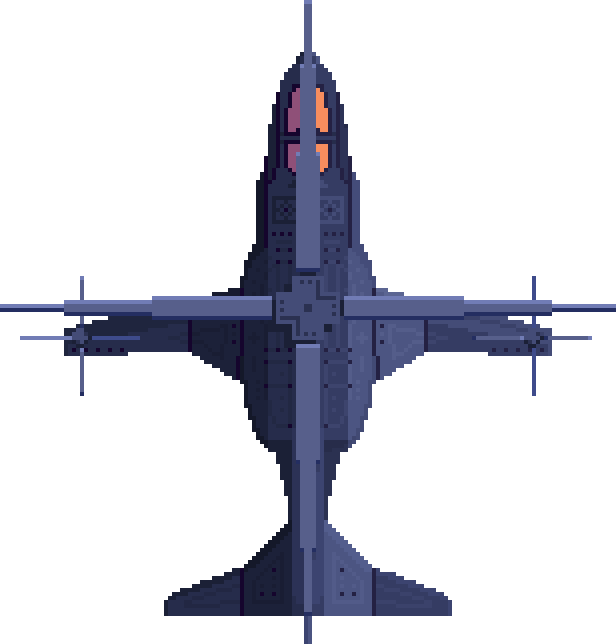
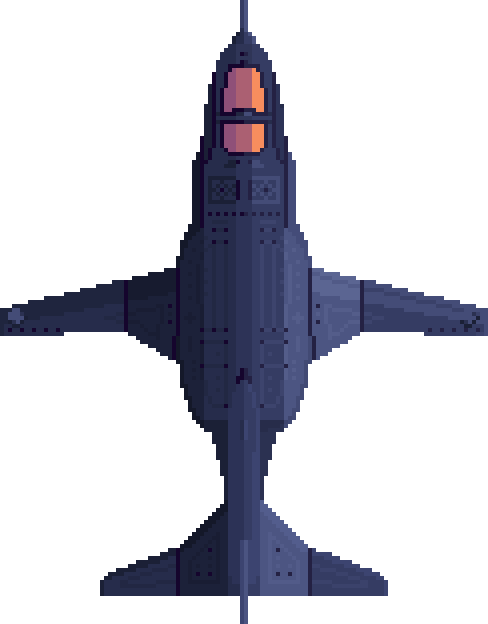
Helicopter

Changed region(s): [[0.0, 0.0, 1.0, 1.0]]

diff --git a/src/states/Game.js b/src/states/Game.js
@@ -7,6 +7,7 @@ import MapGenerator from './MapGenerator'
 import Player from '../classes/Player'
 import EnemyManager from '../classes/EnemyManager'
 import CollectableManager from '../classes/CollectableManager'
+import Helicopter from '../sprites/Helicopter'
 
 const array = require('lodash/array')
 const collection = require('lodash/collection')
@@ -34,6 +35,7 @@ export default class extends Phaser.State {
   enemyGroup = null
   playerGroup = null
   decorationGroup = null
+  helicopterGroup = null
 
   constructor () {
     super()
@@ -53,6 +55,7 @@ export default class extends Phaser.State {
     this.enemyGroup = new Phaser.Group(this.game, undefined, 'enemies', false, true)
     this.playerGroup = new Phaser.Group(this.game, undefined, 'player', false, true)
     this.decorationGroup = new Phaser.Group(this.game, undefined, 'deco', false, true)
+    this.helicopterGroup = new Phaser.Group(this.game, undefined, 'helicopter', false, true)
     this.gameWorld.position.setTo(0, 0)
     this.game.physics.startSystem(Phaser.Physics.P2JS)
     this.game.physics.p2.setImpactEvents(true)
@@ -82,6 +85,9 @@ export default class extends Phaser.State {
 
     this.game.physics.p2.updateBoundsCollisionGroup()
     this.player.sprite.body.collides(this.enemyCollisionGroup, this.hitEnemy, this)
+
+    this.helicopter = new Helicopter({game: this.game, x: -400, y: this.player.sprite.y})
+    this.helicopterGroup.add(this.helicopter)
   }
 
   hitEnemy (body1, body2) {
@@ -176,6 +182,7 @@ export default class extends Phaser.State {
     }
 
     this.player.update()
+    this.helicopter.y = this.player.sprite.y
 
     // UPDATE POLYGONS AND CHECK COLLISION
     let playerWallCollision = this.player.checkWallCollision(this.visiblePolygons)

diff --git a/src/sprites/Helicopter.js b/src/sprites/Helicopter.js
@@ -1,0 +1,38 @@
+import Phaser from 'phaser'
+
+export default class Helicopter extends Phaser.Sprite {
+  constructor ({ game, x, y, asset }) {
+    super(game, x, y, 'helicopter')
+
+    this.rotorBig = new Phaser.Sprite(this.game, this.width / 2, this.height / 2, 'helicopter_rotor_big')
+    this.rotorBig.anchor.set(0.5)
+    this.rotorBig.x = 0
+    this.rotorBig.y = -14
+    this.addChild(this.rotorBig)
+
+    this.rotorSmallLeft = new Phaser.Sprite(this.game, this.width / 2, this.height / 2, 'helicopter_rotor_small')
+    this.rotorSmallLeft.anchor.set(0.5)
+    this.rotorSmallLeft.x = -226
+    this.rotorSmallLeft.y = 16
+    this.addChild(this.rotorSmallLeft)
+
+    this.rotorSmallRight = new Phaser.Sprite(this.game, this.width / 2, this.height / 2, 'helicopter_rotor_small')
+    this.rotorSmallRight.anchor.set(0.5)
+    this.rotorSmallRight.x = 226
+    this.rotorSmallRight.y = 16
+    this.addChild(this.rotorSmallRight)
+
+    this.anchor.setTo(0.5)
+  }
+
+  update () {
+    let rotation = this.rotorBig.rotation
+    rotation += 0.5
+    if (rotation >= 360) {
+      rotation = 0
+    }
+    this.rotorBig.rotation = rotation
+    this.rotorSmallLeft.rotation = rotation
+    this.rotorSmallRight.rotation = rotation
+  }
+}

diff --git a/src/states/Splash.js b/src/states/Splash.js
@@ -21,6 +21,8 @@ export default class extends Phaser.State {
     this.load.image('enemy', 'assets/images/enemy_mini.png')
     this.load.image('stage', 'assets/images/stage.png')
     this.load.image('helicopter', 'assets/images/helicopter.png')
+    this.load.image('helicopter_rotor_big', 'assets/images/helicopter_rotor_big.png')
+    this.load.image('helicopter_rotor_small', 'assets/images/helicopter_rotor_small.png')
 
     this.load.spritesheet('coin', 'assets/images/coin_spin.png', 56, 56)
 
